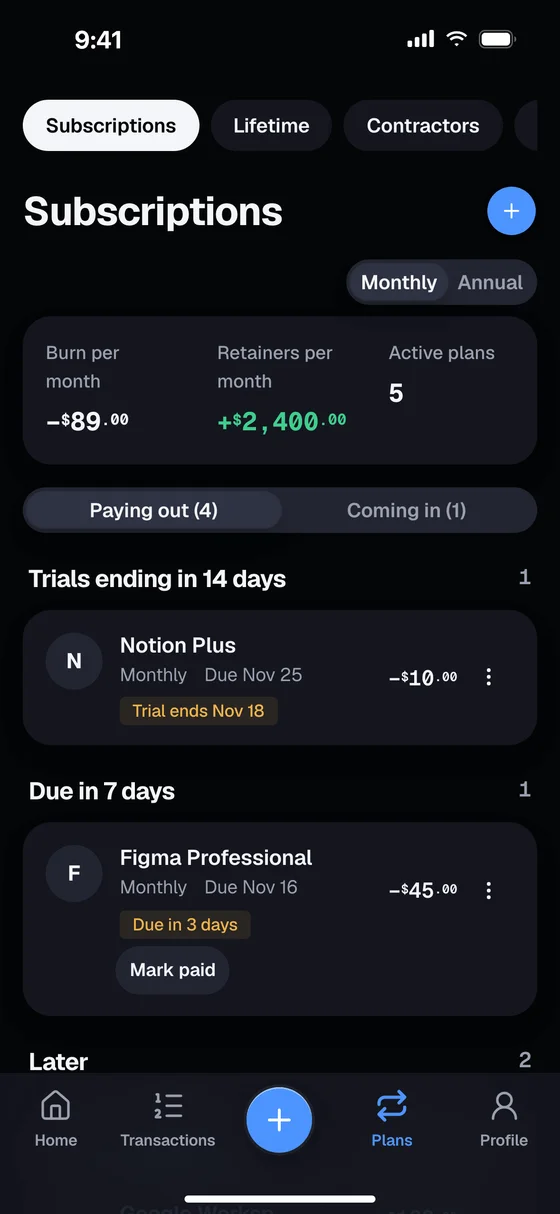
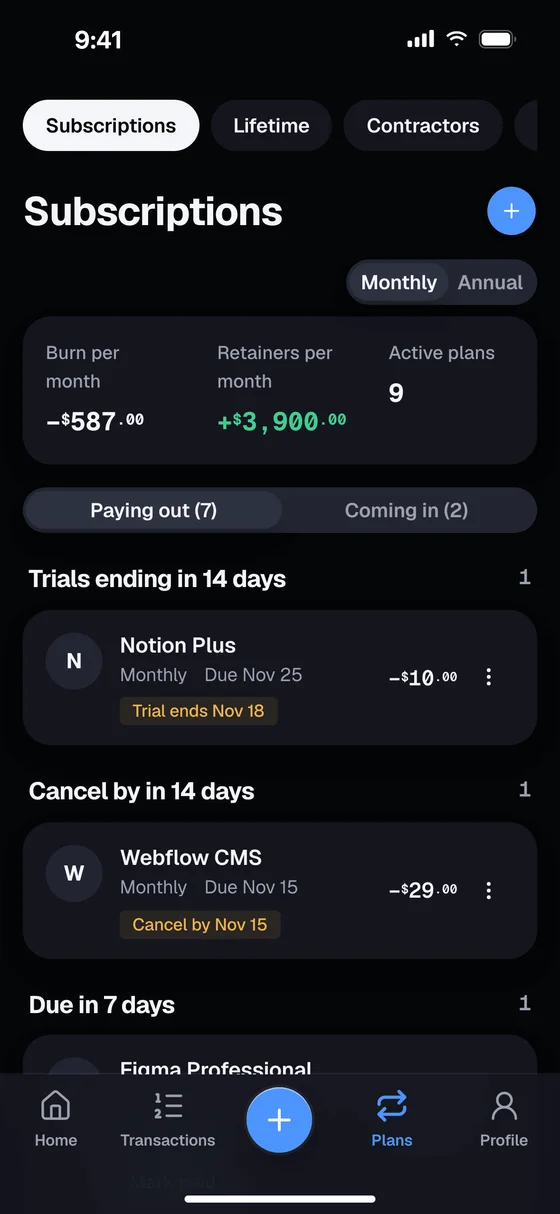
README: fresh screenshots from the demo account, Transactions and Profile screens, quick add, categories and theme rows
- capture-screens.mjs --demo logs into the shared demo account (richer data) and also shoots Transactions and Profile
- Landing phone screens refreshed with the same captures

diff --git a/README.md b/README.md
@@ -45,14 +45,16 @@ Budget Ortha keeps each of those as its own kind of entry and answers three ques
 
 <table>
   <tr>
-    <td width="33%"><img src="docs/screenshots/home.webp" alt="Dashboard: net this month, money in and out, and the next 30 days of charges" /></td>
-    <td width="33%"><img src="docs/screenshots/subscriptions.webp" alt="Subscriptions: monthly and yearly cost, trials ending, due dates and mark paid" /></td>
-    <td width="33%"><img src="docs/screenshots/clients.webp" alt="Client page: income, costs and margin for one client" /></td>
+    <td width="25%"><img src="docs/screenshots/home.webp" alt="Home: net this month on a blue gradient, quick actions, money in and out" /></td>
+    <td width="25%"><img src="docs/screenshots/transactions.webp" alt="Transactions grouped by day, with a contractor payout shown in BDT and dollars" /></td>
+    <td width="25%"><img src="docs/screenshots/subscriptions.webp" alt="Subscriptions: monthly cost, trials ending, due dates and mark paid" /></td>
+    <td width="25%"><img src="docs/screenshots/profile.webp" alt="Profile: photo and name, reports, budgets and settings" /></td>
   </tr>
   <tr>
     <td align="center"><sub>Home</sub></td>
+    <td align="center"><sub>Transactions</sub></td>
     <td align="center"><sub>Subscriptions</sub></td>
-    <td align="center"><sub>Profit per client</sub></td>
+    <td align="center"><sub>Profile</sub></td>
   </tr>
 </table>
 
@@ -63,6 +65,9 @@ Budget Ortha keeps each of those as its own kind of entry and answers three ques
 | | |
 |---|---|
 | **Subscriptions and retainers** | Monthly, quarterly, yearly or weekly plans with the next due date. One tap marks a charge paid, logs it and moves the date forward. Toggle between monthly and yearly cost. |
+| **Quick add** | The ＋ button adds an expense, income, one-time purchase, lifetime deal or contractor payout. Choose Subscription and it becomes a repeating plan, with an option to log today's charge. |
+| **Categories** | A fixed set with icons (Software, Hosting, AI, Marketing, Contractors, Travel and more, plus Client work and Retainer for income). Add your own when you need one. |
+| **Light, dark and system** | Pick the look after sign-up and change it any time under Profile. |
 | **Notifications** | Add it to your iPhone Home Screen and turn on notifications: a morning summary of renewals, trials, overdue charges and budgets, plus an evening reminder to log the day's expenses (skipped if you already did). You pick the hours. Works on Android and desktop too. The first time you sign in on a device, a short prompt offers to turn it on. |
 | **Profile photo and name** | Add a photo and a name on the Profile page. Without a name, the part of your email before the @ is used. |
 | **Second currency** | Show a small converted amount under totals, such as ৳58,420 under $480, at a daily rate. Turn it on under Profile, Money. |
